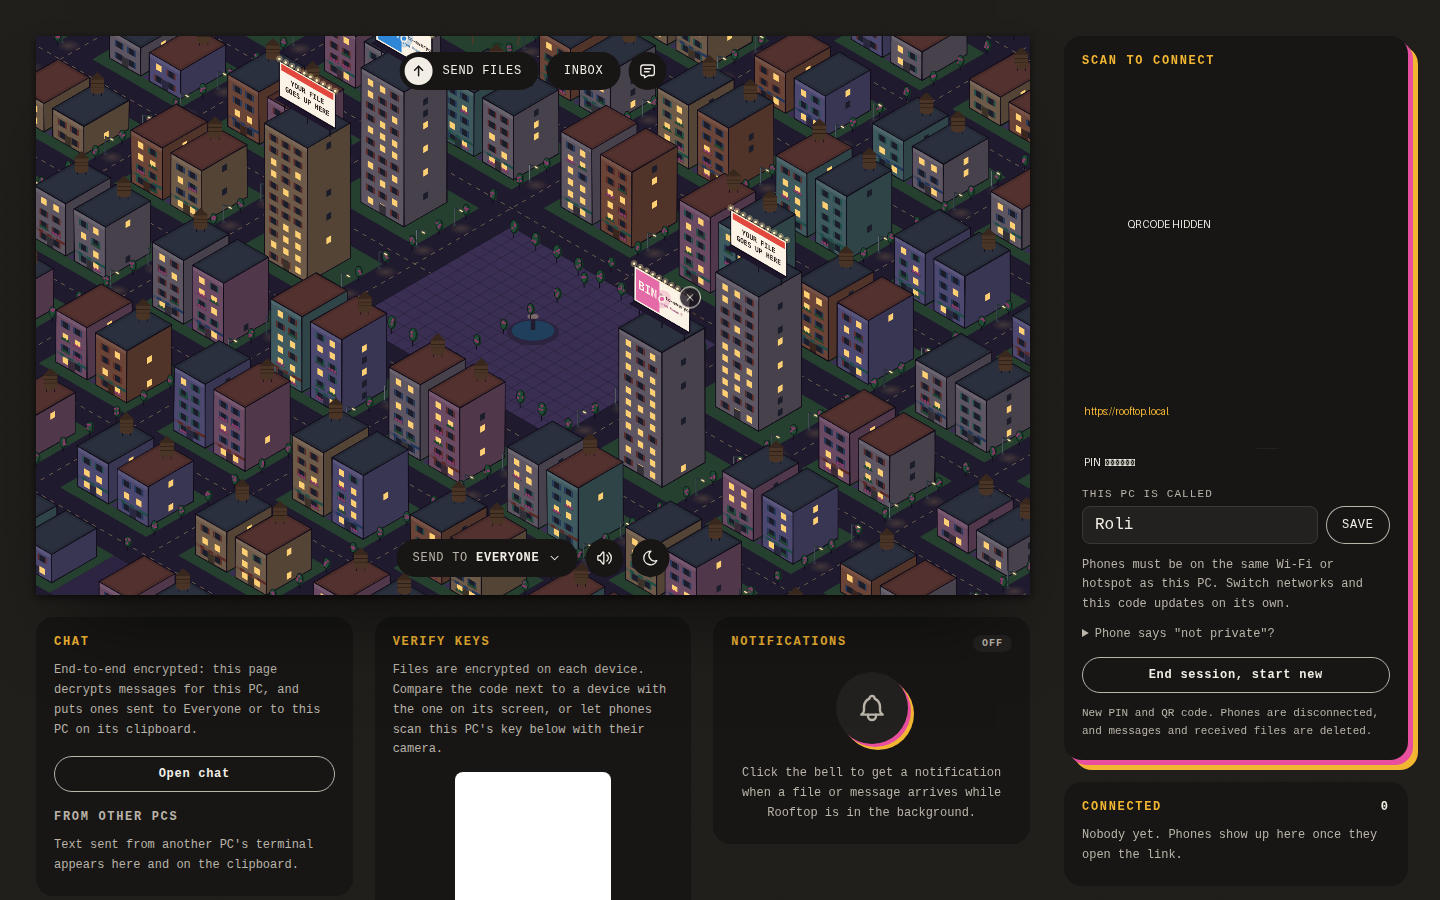
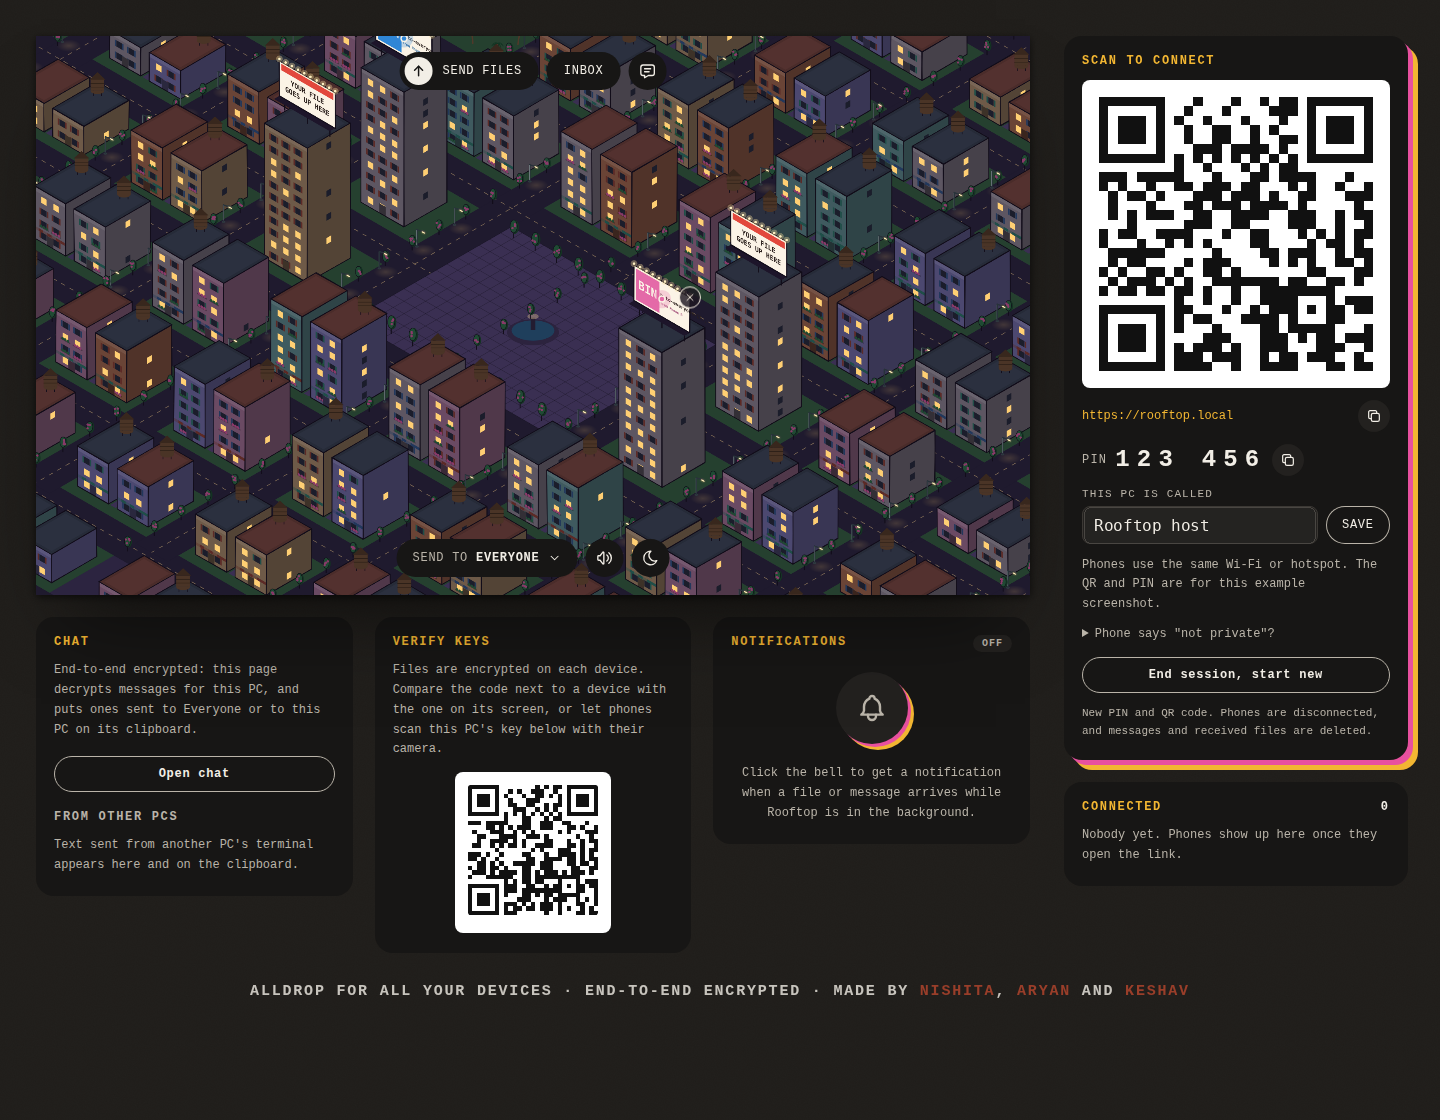
Align desktop cards and refresh README screenshot

diff --git a/web/style.css b/web/style.css
@@ -1913,7 +1913,7 @@ body.is-host .host { grid-row: 1 / span 2; align-self: start; }
 body.is-host .host-more {
   grid-column: 1; grid-row: 2;
   display: grid; grid-template-columns: repeat(3, minmax(0, 1fr)); gap: 22px;
-  align-items: start; /* device lists must not stretch neighbouring cards */
+  align-items: stretch;
   margin-top: 22px;
 }
 body.is-host .host-more .host-card { align-content: start; }
